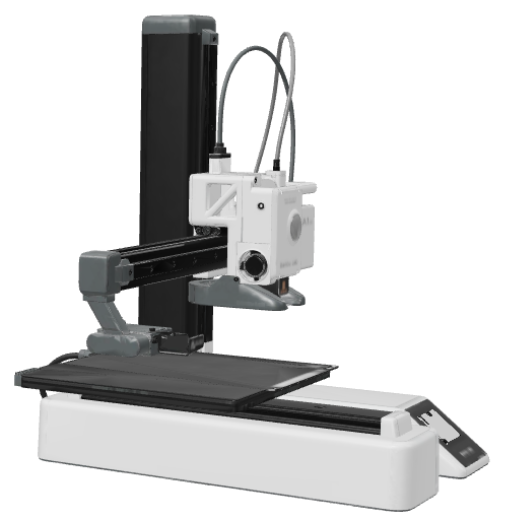
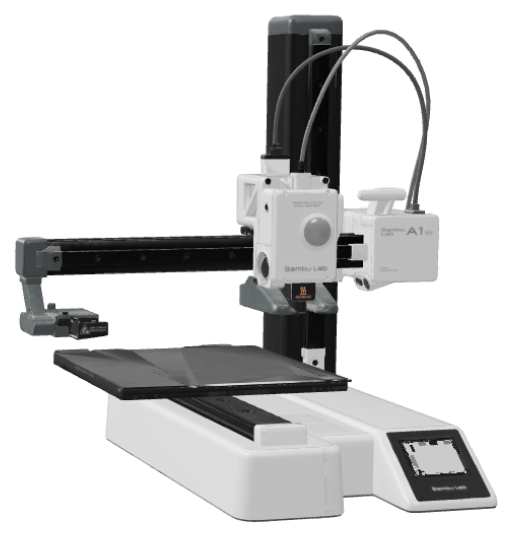
sheet 01 / process: right-side printer, steps 02-04 written
- the A1 mini camera moves to the printer's right side (az 1.22-1.34),
  hero and step keep their own framing; still plate re-rendered to match
- the process is no longer three acts: hero, 01 how it all started (3D
  printer), 02 motors, 03 design, 04 assemble, back — six acts, six
  progress ticks, six index entries, ghost words PRINT/DRIVE/DRAW/BUILD
- motors / design / assemble carry the real facts we have (UMIR57 x2,
  UMIR42 x3, RS485-Modbus-RTU, six axes drawn / five built); their 3D
  models are not here yet, so the stage stays empty on those acts
- acts opt into a stage with data-stage/data-preset and process.js hides
  it everywhere else: adding the next model is an act attribute plus a
  scene, not a layout change
- back act now says 'That's the process so far' and notes more steps go
  up as they are written

diff --git a/work/arm/process/index.html b/work/arm/process/index.html
@@ -83,7 +83,10 @@
       <ol>
         <li><a href="#top"><span class="mono">00</span>How it got made</a></li>
         <li><a href="#start"><span class="mono">01</span>How it all started</a></li>
-        <li><a href="#back"><span class="mono">02</span>Back to the arm</a></li>
+        <li><a href="#motors"><span class="mono">02</span>Motors</a></li>
+        <li><a href="#design"><span class="mono">03</span>Design</a></li>
+        <li><a href="#assemble"><span class="mono">04</span>Assemble</a></li>
+        <li><a href="#back"><span class="mono">05</span>Back to the arm</a></li>
       </ol>
       <p class="index-foot mono">ethan.li.1@outlook.com</p>
     </nav>
@@ -95,13 +98,16 @@
         <li class="on"></li>
         <li></li>
         <li></li>
+        <li></li>
+        <li></li>
+        <li></li>
       </ol>
     </aside>
 
     <!-- ------------------------------------------------------------ main -->
     <main id="main">
       <!-- =========================================================== HERO -->
-      <section class="act act--hero" id="top" data-ghost="MAKE" data-index="1" data-ex="rise">
+      <section class="act act--hero" id="top" data-ghost="MAKE" data-index="1" data-stage="printer" data-preset="hero" data-ex="rise">
         <div class="act-inner">
           <div class="act-top">
             <p class="eyebrow mono"><span class="dot"></span>Sheet 01 · process</p>
@@ -127,7 +133,7 @@
       </section>
 
       <!-- =========================================================== START -->
-      <section class="act act--start" id="start" data-ghost="PRINT" data-index="2" data-ent="rise" data-ex="swing">
+      <section class="act act--step" id="start" data-ghost="PRINT" data-index="2" data-stage="printer" data-preset="step" data-ent="rise" data-ex="swing">
         <div class="act-inner">
           <div class="act-top">
             <p class="eyebrow mono"><span class="dot"></span>01 / How it all started</p>
@@ -149,14 +155,82 @@
         </div>
       </section>
 
+      <!-- ========================================================== MOTORS -->
+      <section class="act act--step" id="motors" data-ghost="DRIVE" data-index="3" data-ent="curtain" data-ex="swing">
+        <div class="act-inner">
+          <div class="act-top">
+            <p class="eyebrow mono"><span class="dot"></span>02 / Motors</p>
+            <h2 class="act-title">
+              Five motors,<br />
+              <em>two sizes.</em>
+            </h2>
+          </div>
+
+          <div class="act-bottom">
+            <p class="act-copy">
+              The joints run on five steppers — two UMIR57s at the base and the shoulder,
+              three UMIR42s further out — all on one RS485 / Modbus-RTU bus. Picking them
+              was the first time the build had to match a datasheet.
+            </p>
+            <p class="act-note mono">UMIR57 ×2 · UMIR42 ×3 · RS485 / Modbus-RTU</p>
+          </div>
+        </div>
+      </section>
+
+      <!-- ========================================================== DESIGN -->
+      <section class="act act--step" id="design" data-ghost="DRAW" data-index="4" data-ent="rise" data-ex="swing">
+        <div class="act-inner">
+          <div class="act-top">
+            <p class="eyebrow mono"><span class="dot"></span>03 / Design</p>
+            <h2 class="act-title">
+              Six axes,<br />
+              <em>drawn in CAD.</em>
+            </h2>
+          </div>
+
+          <div class="act-bottom">
+            <p class="act-copy">
+              Every part of the arm was modelled before it was made: six axes on screen,
+              five of them built. The printed parts were sized to the motors instead of
+              picked to fit a catalogue — that is what the printer made possible.
+            </p>
+            <p class="act-note mono">6 axes drawn · 5 built · CAD assembly</p>
+          </div>
+        </div>
+      </section>
+
+      <!-- ======================================================== ASSEMBLE -->
+      <section class="act act--step" id="assemble" data-ghost="BUILD" data-index="5" data-ent="curtain" data-ex="swing">
+        <div class="act-inner">
+          <div class="act-top">
+            <p class="eyebrow mono"><span class="dot"></span>04 / Assemble</p>
+            <h2 class="act-title">
+              Five joints,<br />
+              <em>one arm.</em>
+            </h2>
+          </div>
+
+          <div class="act-bottom">
+            <p class="act-copy">
+              Printed parts, motors and wiring go together into one five-axis arm, each
+              joint fitted around the parts it has to hold. What came out of this bench
+              is the machine on sheet 01.
+            </p>
+            <p class="act-note mono">printed parts · five motors · one arm</p>
+          </div>
+        </div>
+      </section>
+
       <!-- ============================================================ BACK -->
       <section class="act act--contact" id="back" data-ghost="HI" data-index="3" data-ent="dolly">
         <div class="act-inner">
           <div class="act-top">
-            <p class="eyebrow mono"><span class="dot"></span>02 / Back to the arm</p>
+            <p class="eyebrow mono"><span class="dot"></span>05 / Back to the arm</p>
           </div>
 
-          <h2 class="act-title contact-title">That’s<br />where it started.</h2>
+          <h2 class="act-title contact-title">That’s the process<br /><em>so far.</em></h2>
+
+          <p class="act-note mono">More steps go up as they are written</p>
 
           <a class="email" href="/work/arm/">← back to the arm</a>
 

diff --git a/src/process.js b/src/process.js
@@ -42,7 +42,11 @@ const ACTS = [...document.querySelectorAll('.act')].map((el) => ({
   stop: el.dataset.stop || '',
   ghost: el.dataset.ghost || '',
   index: el.dataset.index || '',
+  // which 3D object (if any) lives behind this act, and its framing preset
+  stage: el.dataset.stage || '',
+  preset: el.dataset.preset || '',
 }))
+const PRINTER_STAGE = 'printer'
 
 let activeAct = 0
 
@@ -90,14 +94,16 @@ function startScene() {
   return sceneTask
 }
 
-// hero + step show the printer; the last act hands the page back to the arm.
+// Only the acts marked data-stage="printer" show the printer; the rest are
+// deliberately empty until their own models arrive.
 function applyAct(i) {
-  const last = ACTS.length - 1
-  const showStage = i < last
+  const act = ACTS[i]
+  if (!act) return
+  const showStage = act.stage === PRINTER_STAGE
   body.classList.toggle('stage-off', !showStage)
   if (scene) {
     scene.setVisible(showStage)
-    scene.setPreset(i <= 0 ? 'hero' : 'step')
+    scene.setPreset(act.preset === 'hero' ? 'hero' : 'step')
   }
 }
 

diff --git a/src/printer-scene.js b/src/printer-scene.js
@@ -39,9 +39,9 @@ const D2R = Math.PI / 180
 // bounding box may use; x/y shift the model on screen (fraction of the viewport,
 // +x right, +y down), which is how the copy column keeps its side of the page.
 const PRESETS = {
-  hero: { az: 0.60, el: 0.10, fillX: 0.50, fillY: 0.50, x: 0.195, y: -0.01 },
-  step: { az: 0.42, el: 0.07, fillX: 0.52, fillY: 0.54, x: 0.20, y: -0.02 },
-  phone: { az: 0.55, el: 0.08, fillX: 0.66, fillY: 0.38, x: 0.0, y: -0.13 },
+  hero: { az: 1.34, el: 0.09, fillX: 0.50, fillY: 0.50, x: 0.195, y: -0.01 },
+  step: { az: 1.22, el: 0.07, fillX: 0.52, fillY: 0.54, x: 0.20, y: -0.02 },
+  phone: { az: 1.26, el: 0.08, fillX: 0.66, fillY: 0.38, x: 0.0, y: -0.13 },
 }
 
 const ease = (current, target, rate, dt) => current + (target - current) * (1 - Math.exp(-rate * dt))

diff --git a/src/style.css b/src/style.css
@@ -888,7 +888,7 @@ body.stage-off .stage canvas {
   left: 72%;
   height: min(58vh, 640px);
 }
-.act--start .act-title {
+.act--step .act-title {
   max-width: 21ch;
 }
 .act-copy {
@@ -898,7 +898,7 @@ body.stage-off .stage canvas {
   letter-spacing: -0.012em;
   color: var(--ink-soft);
 }
-.act--start .act-bottom {
+.act--step .act-bottom {
   max-width: 64ch;
 }
 

diff --git a/ARCHITECTURE.md b/ARCHITECTURE.md
@@ -6,7 +6,7 @@ modules**. No framework, no backend, no runtime data. Everything ships as static
 ```
 /                → index.html                 Sheet 00, the hub
 /work/arm/       → work/arm/index.html        Sheet 01, the v6 film
-/work/arm/process/ → work/arm/process/index.html  Sheet 01 / process, step 01 (A1 mini 3D stage)
+/work/arm/process/ → work/arm/process/index.html  Sheet 01 / process, steps 01-04 (printer 3D live)
 /work/nora/      → work/nora/index.html       Sheet 02, Nora
 /work/nora/demo/ → work/nora/demo/index.html  the desk-cat demo (iframe target; ?full = full page)
 ```
@@ -62,6 +62,9 @@ personal-page/
 - Film asset URLs are absolute (`/fonts/...`, `/img/...`); the GLB URL derives from
   `import.meta.env.BASE_URL + 'models/arm-opt.glb'`.
 - The Nora sheet iframes `/work/nora/demo/` (same origin, no server, demo events only).
+- The process page owns one scene at a time: an act that should show a 3D object carries
+  `data-stage="<name>"` and `data-preset="hero|step"`, and `process.js` hides the stage on every
+  other act. Only `stage="printer"` exists today; steps 02–04 have no object yet.
 
 ## Ownership / what each file owns
 
@@ -75,7 +78,7 @@ personal-page/
 | `src/nora-cat.js` | The hub's cat canvas: layout, movement bank, pointer look, visibility pause | know about the room, the demo page or a server |
 | `src/nora-sheet.js` | Sheet 02 only: marks the demo iframe `.is-focused` from its window focus/blur events (keyboard focus lands inside the child document, where `:focus`/`:focus-within` never match) | touch anything but the demo iframe |
 | `work/arm/index.html` + `src/style.css`, `main.js`, `arm-scene.js` | The film, unchanged (v4/v6 contracts) | be reused by the hub or sheets |
-| `work/arm/process/index.html` + `src/process.js` | The process page: film chrome, act choreography, and the printer scene wiring; copy for step 01 lives in the HTML | touch the arm scene |
+| `work/arm/process/index.html` + `src/process.js` | The process page: film chrome, six acts (hero, steps 01–04, back), and the printer scene wiring; copy lives in the HTML | touch the arm scene |
 | `src/film-loader.js` | The shared loading curtain: promise-based lift on the scene's first frame, real transfer progress, safety valve | know what the scene renders |
 | `src/printer-scene.js` | The process page's A1 mini: framing presets, idle sway, pointer parallax, dispose | know the page layout |
 | `work/nora/demo/*` | The desk-cat page (copied) + embed/demo adaptations | talk to a server or read real data |

diff --git a/README.md b/README.md
@@ -14,7 +14,7 @@ direction and the open decisions live in [`HUB-PLAN.md`](HUB-PLAN.md).
 | --- | --- | --- |
 | `/` | 00 — index | Name, one line, current state, works register (01 and 02 published, 03–05 in prep), mission band with the system diagram, built/in build/next, record, contact, title block. No 3D. The Nora plate is a live canvas: the cat alone on paper, idling through her movement bank. |
 | `/work/arm/` | 01 — the arm | The v6 **product film**: fixed 3D stage, six camera stops, the real articulated `arm-opt.glb`, mesh/points/x-ray modes, free view with part details. Unchanged except a back link to the index. |
-| `/work/arm/process/` | 01 — process | How the arm got made, in order. Step 01 is the Bambu Lab A1 mini — a live 3D model that gave access to personalised parts. Same film chrome as the arm sheet; the remaining steps land later. |
+| `/work/arm/process/` | 01 — process | How the arm got made, in order. Step 01 (the Bambu Lab A1 mini) is a live 3D model; steps 02–04 (motors, design, assemble) are written and wait on their own models. Same film chrome as the arm sheet. |
 | `/work/nora/` | 02 — Nora | The personal AI that runs 24/7 on a Mac of her own, with an **interactive pixel-art desk cat** as its status window. Argument, state table, build diagram, and the live demo. |
 | `/work/nora/demo/` | — | The actual desk-cat page, copied into the site and permanently in demo mode (fake events, no server). Embedded on Sheet 02; `?full` opens the complete pet page. |
 
